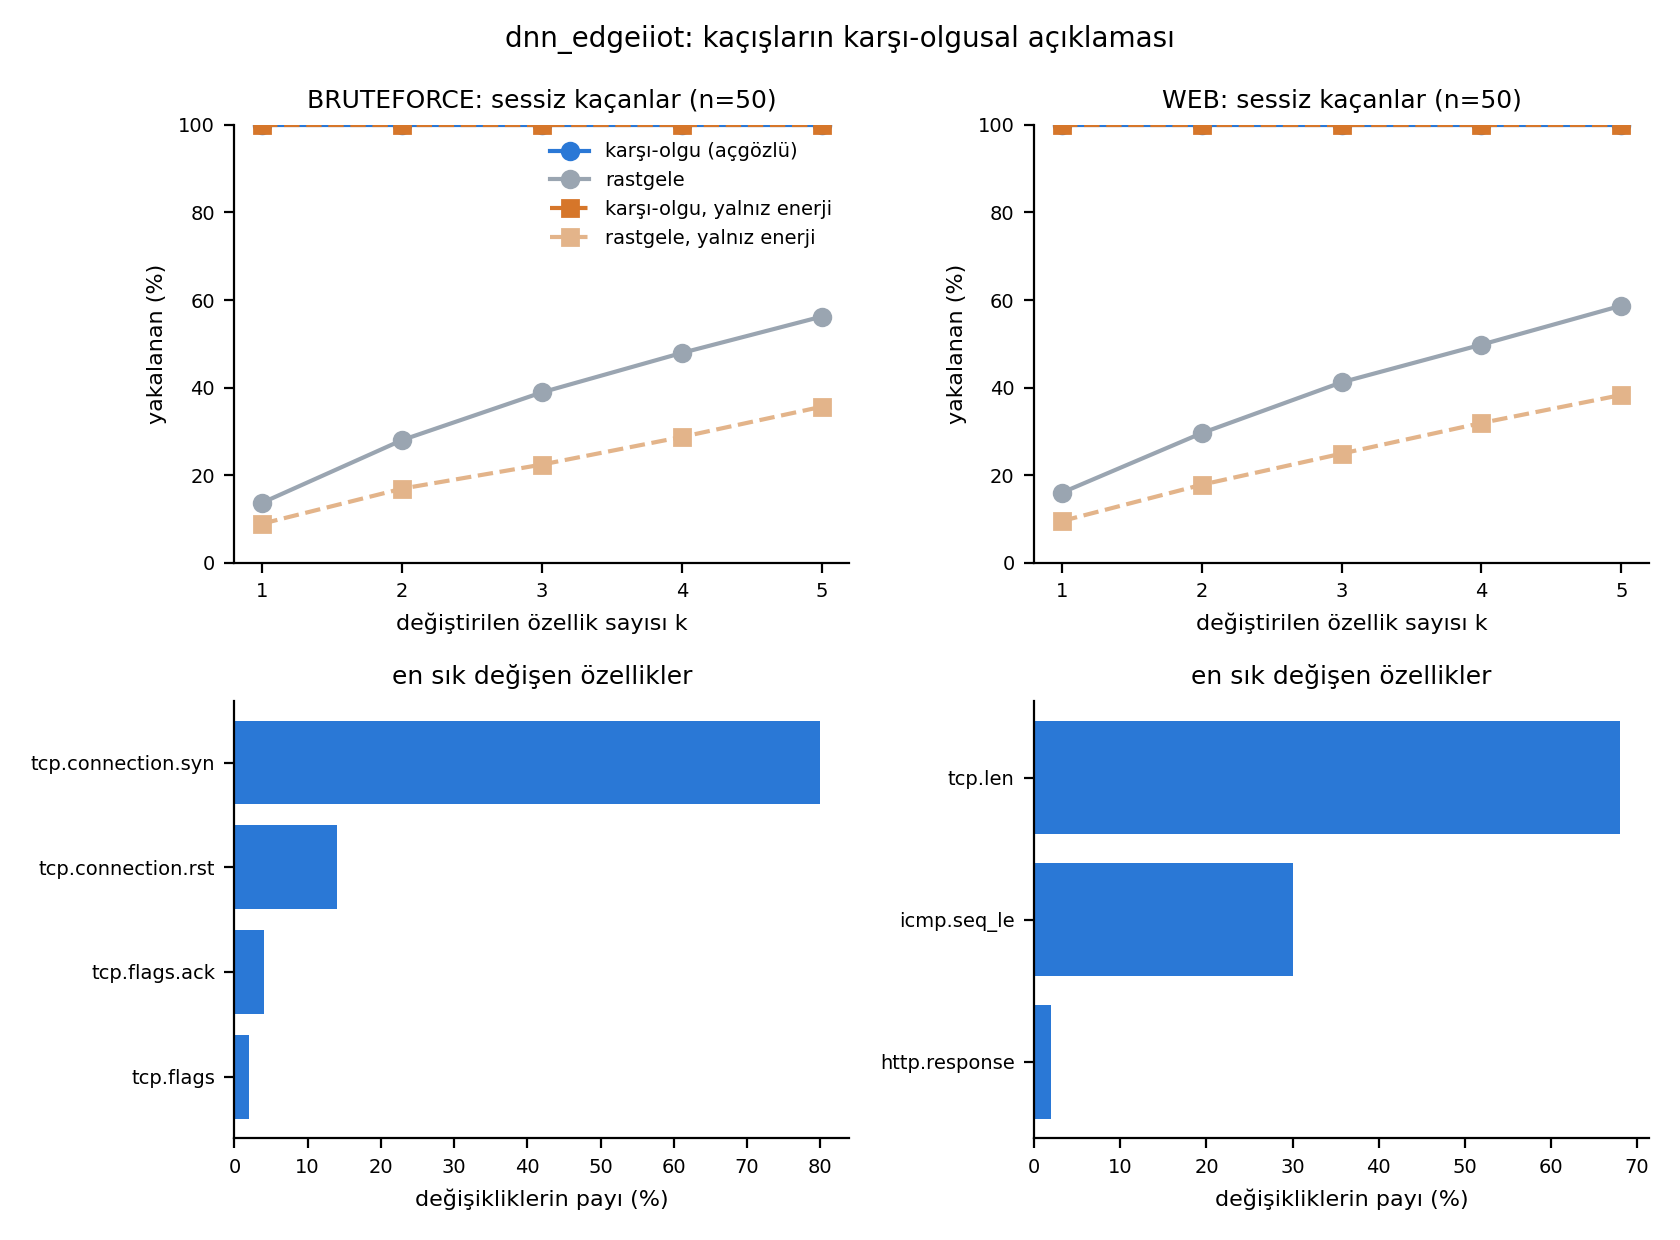
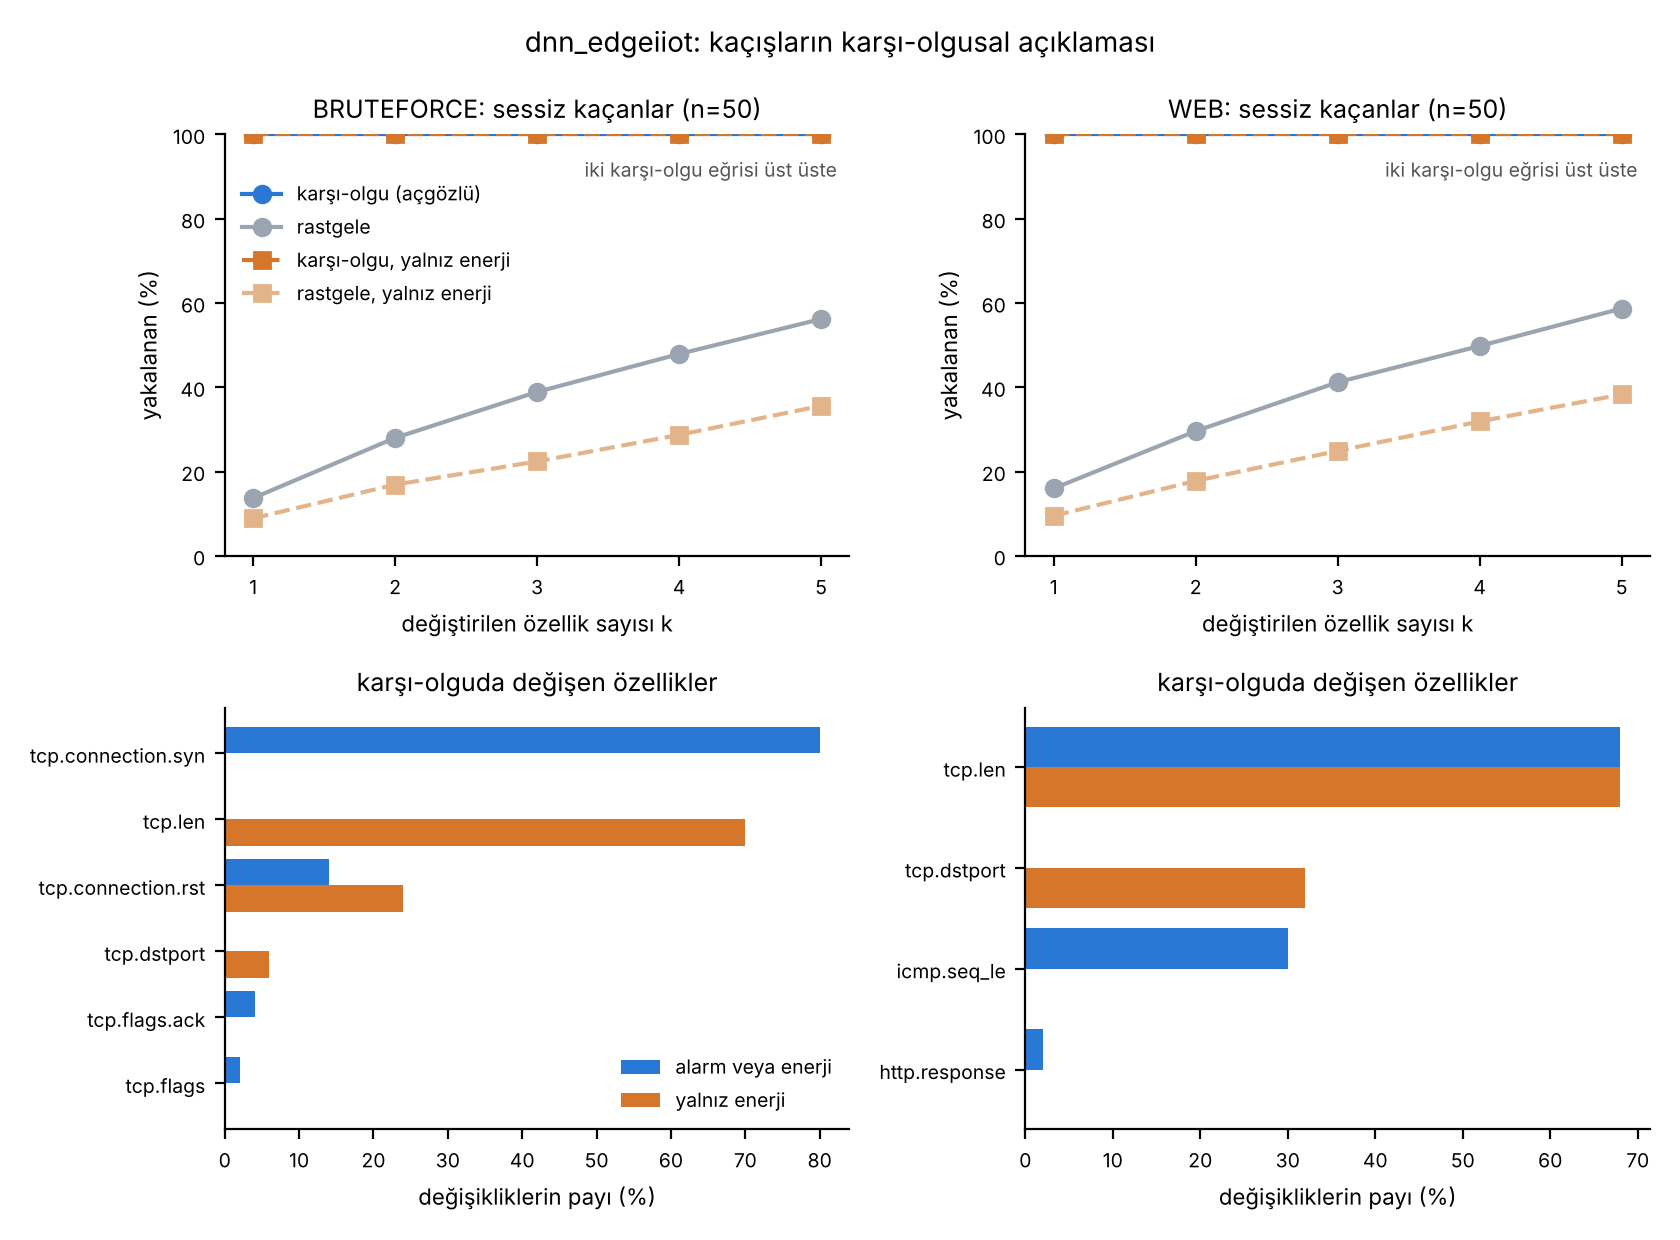
Kaçışların Karşı-Olgusal Açıklaması (XAI-3): sonuçlar README'de; figür (iki karşı-olgu türü yan yana)
Claude-Session: https://claude.ai/code/session_017BRYdsWW3ZevwqEfkv9yJ2

diff --git a/src/xai_escape_counterfactual.py b/src/xai_escape_counterfactual.py
@@ -433,14 +433,24 @@ def plot(out, path):
         ax.spines[["top", "right"]].set_visible(False)
         ax.tick_params(labelsize=7)
         ax2 = axes[1, c]
-        top = s["top_changed_features"][:8][::-1]
-        if top:
-            ax2.barh([t["feature"] for t in top], [t["share_of_changes"] * 100 for t in top], color="#2a78d6")
+        sh_any = {t["feature"]: t["share_of_changes"] * 100 for t in s["top_changed_features"]}
+        sh_e = {t["feature"]: t["share_of_changes"] * 100 for t in s["energy_only"]["top_changed_features"]}
+        feats = sorted(set(sh_any) | set(sh_e), key=lambda k: max(sh_any.get(k, 0), sh_e.get(k, 0)))[-8:]
+        yy = np.arange(len(feats))
+        ax2.barh(yy + 0.2, [sh_any.get(k, 0) for k in feats], 0.4, color="#2a78d6", label="alarm veya enerji")
+        ax2.barh(yy - 0.2, [sh_e.get(k, 0) for k in feats], 0.4, color="#d6762a", label="yalnız enerji")
+        ax2.set_yticks(yy)
+        ax2.set_yticklabels(feats)
         ax2.set_xlabel("değişikliklerin payı (%)", fontsize=8)
-        ax2.set_title("en sık değişen özellikler", fontsize=9)
+        ax2.set_title("karşı-olguda değişen özellikler", fontsize=9)
         ax2.spines[["top", "right"]].set_visible(False)
         ax2.tick_params(labelsize=7)
-    axes[0, 0].legend(frameon=False, fontsize=7)
+        if c == 0:
+            ax2.legend(frameon=False, fontsize=7)
+        if cc["greedy"] == ce["greedy"]:
+            ax.text(0.98, 0.9, "iki karşı-olgu eğrisi üst üste", transform=ax.transAxes, ha="right", fontsize=7,
+                    color="#555")
+    axes[0, 0].legend(frameon=False, fontsize=7, loc="upper left", bbox_to_anchor=(0.0, 0.93))
     fig.suptitle(f"{out['dataset_id']}: kaçışların karşı-olgusal açıklaması", fontsize=10)
     fig.tight_layout()
     fig.savefig(path, dpi=200)

diff --git a/data/dnn_edgeiiot/README.md b/data/dnn_edgeiiot/README.md
@@ -423,6 +423,42 @@ Soru: Bekçiden sessizce geçen (alarm yok, DSS BENIGN dedi, enerji kontrolünde
 - **Yorumda dikkat:** karşı-olgu "saldırganın bekçiyi atlatmak için ne yapması gerekir" sorusuna da ters yönden ipucu verir; tezde savunma amaçlı (kör nokta) çerçevesinde yazılır.
 - **Literatür konumu:** ağ saldırı tespitinde karşı-olgusal açıklamalar kapalı küme sınıflandırma için çalışılmış (ör. arXiv 2507.17161, 2025); görülmemiş saldırı bekçisinin **kaçışlarına** uygulanmasına kısa aramada rastlanmadı. Tez yazılmadan önce ayrıntılı literatür taraması yapılacak; "ilk" iddiası ancak ondan sonra.
 
+## Kaçışların Karşı-Olgusal Açıklaması (XAI-3): sonuçlar (26.10.2026)
+
+Kod: `src/xai_escape_counterfactual.py`. Çıktı: `outputs/dnn_edgeiiot/xai_escape_counterfactual/`, kayıt: `outputs/dnn_edgeiiot/logs/log_xai_escape_counterfactual_C.txt`. Koşul C, tohum 42, q = %5; XAI-2'nin kayıtlı TabM'i (dss_guard ile uyum 1,0) ve aynı 50'şer sessiz kaçan satır. Kaggle GPU, 2 dk.
+
+![Kaçışların karşı-olgusal açıklaması](../../outputs/dnn_edgeiiot/xai_escape_counterfactual/fig_xai_escape_counterfactual_dnn_edgeiiot_C_seq_ack_yok.png)
+
+| | BRUTEFORCE | WEB |
+|---|---|---|
+| Sessiz kaçan (açıklanan) | 195 (50) | 66 (50) |
+| (1) Başlangıç payı, medyan [%10–%90] (IQR) | −0,020 [−0,026, −0,008] | −0,018 [−0,63, −0,006] |
+| Alarm eşiğine uzaklık / enerji eşiğine uzaklık, medyan | −4,65 / −0,020 | −2,64 / −0,018 |
+| (2) Yakalanma k = 1…5, alarm veya enerji: karşı-olgu | %100 (k = 1'de) | %100 (k = 1'de) |
+| … rastgele | %14 → %28 → %39 → %48 → %56 | %16 → %30 → %41 → %50 → %59 |
+| Ek: yalnız enerji: karşı-olgu | %100 (k = 1'de) | %100 (k = 1'de) |
+| … rastgele | %9 → %17 → %22 → %29 → %36 | %10 → %18 → %25 → %32 → %38 |
+| (3) Değişim büyüklüğü, medyan (özellik IQR'si) | 1,0 (yalnız enerji: 0,71) | 2,1 (yalnız enerji: 2,1) |
+| (4) En sık değişen, alarm veya enerji | `tcp.connection.syn` 0→1 (40/50), `tcp.connection.rst` 0→1 (7) | `tcp.len` 0→495 (34), `icmp.seq_le` 0→44615 (15) |
+| … tetiklenen sinyal | alarm + enerji 38, yalnız alarm 12 | alarm + enerji 35, yalnız alarm 15 |
+| (4) En sık değişen, yalnız enerji | `tcp.len` 0→108 (35), `tcp.connection.rst` 0→1 (12), `tcp.dstport` (3) | `tcp.len` 0→495 (34), `tcp.dstport` ~60 900→4321 (16) |
+| (6) XAI-2 ile tutarlılık: kazanç–\|Shapley\| sıra korelasyonu, medyan | −0,30 | −0,38 |
+| … değişen özelliğin \|Shapley\| sırası (medyan) / ilk-5'te olma | 17 / %20 | 5 / %68 |
+| (7) Gerçekçilik: en yakın bilinen satıra uzaklık, özgün kaçış / karşı-olgu (medyan) | 0,00007 / 1,0 | 0,00006 / 1,7 |
+| (8) Port değişikliği payı: alarm veya enerji / yalnız enerji | %0 / %6 | %0 / %32 |
+
+**Yorum:**
+
+1. **Kaçışlar enerji eşiğinin hemen altında, "kıl payı" kaçışlar.** Enerji eşiğine uzaklık medyanı −0,02 IQR; alarm eşiğinden ise çok uzaklar (−2,6 ile −4,6 IQR). Yani bu satırları sessiz bırakan karar, alarm değil enerji kontrolünün sınırı. Bu yüzden tek bir değişiklik her satırı yakalatıyor (karşı-olgu k = 1'de %100); rastgele tek değişiklik bile %9–16'sını yakalatıyor. Yakalanma oranı eğrisi bu yüzden bu veride ayırt edici değil; asıl bilgi **hangi** değişikliğin seçildiğinde.
+2. **"Alarm veya enerji" karşı-olguları büyük ölçüde gerçek dışı.** BRUTEFORCE'ta mevcut pakete SYN bayrağı eklemek, WEB'de HTTP paketine ICMP sıra numarası yazmak gibi, veride birlikte görülmeyen değerler. Satırların hepsinde alarm da tetikleniyor ve karşı-olgular bilinen trafiğe 1,0–1,7 IQR uzaklıkta (özgün kaçışlar ise ≈ 0). Bu, XAI-2'deki bulguyla aynı: anlaşmazlık gerçek dışı karışımlarla kolayca yükseliyor. Bu kısım kör nokta hakkında bilgi vermiyor; sınırlılık olarak raporlanır.
+3. **Asıl kör nokta haritası "yalnız enerji" analizinden geliyor: yükü olmayan (payload'suz) TCP paketleri.** Kaçan satırların çoğunda `tcp.len` = 0; paket boyu normal trafikte görülen bir değere (108 ya da 495 bayt) çekilince enerji kontrolü yakalıyor (BRUTEFORCE'ta 35/50, WEB'de 34/50). Kalanlarda RST bayrağı (BRUTEFORCE 12/50) ve hedef port (WEB 16/50). Yorum: saldırı oturumlarının yük taşımayan kontrol paketleri (ACK gibi) paket düzeyindeki özelliklerde normal trafiğin kontrol paketleriyle aynı görünüyor.
+4. **Kaçışlar bilinen eğitim trafiğinde neredeyse birebir eşine sahip** (en yakın komşu uzaklığı ≈ 0; satırların %12–24'ünde tam olarak 0). Bu özelliklerle hiçbir paket düzeyindeki dedektör bu satırları ayıramaz; bu, yöntemin değil özellik temsilinin sınırı. Akış veya oturum düzeyindeki özellikler (aynı bağlantının diğer paketleri) bu kör noktayı kapatmanın doğal yolu; tezde gelecek çalışma olarak yazılır.
+5. **Port kör noktanın ana sebebi değil.** Gerçekçi (yalnız enerji) karşı-olgularda port payı BRUTEFORCE'ta %6, WEB'de %32; asıl özellik paket boyu. XAI-2'nin "bekçi porta çok bakıyor" bulgusu geçerli, ama kaçışları açıklayan şey port değil.
+6. **XAI-2 ile tutarlılık düşük, ve bu beklenen bir ayrım.** Shapley değeri "mevcut değerler satırı normalden ne kadar ayırıyor" sorusunu, karşı-olgu ise "hangi değişiklik eşiği aştırır" sorusunu cevaplıyor. Kaçışta `tcp.len` = 0 veya bayrak = 0 olduğunda normal tabanla aynı değerde olduğu için Shapley değeri ≈ 0; ama değiştirilince etkisi büyük. İki açıklama birbirini tamamlıyor; analist kartında ikisi ayrı sorular olarak gösterilmeli.
+7. **Gerçekçilik ölçümü (7) planlandığı gibi yorumlanamıyor:** gerçek bilinen satırların kendi en yakın komşularına uzaklığı medyanı 0 (koşul C'de çok sayıda satır özellik uzayında tekrarlanıyor), bu yüzden "oran" tanımsız büyüklükte. Bunun yerine özgün kaçışın uzaklığı (≈ 0) ile karşı-olgunun uzaklığı (1,0–1,7) karşılaştırıldı (sonuçlardan sonra yapılan değişiklik; ham sayılar JSON'da).
+
+**Sonradan önerilen kontrol (ön kayıtlı değil):** kaçan satırların en yakın bilinen eşinin etiketi. Beklenti: çoğunlukla BENIGN (DSS de BENIGN dedi). Doğrulanırsa 4. madde "kaçışlar normal trafikle ayırt edilemez" olarak kesinleşir.
+
 ## Sütun hizası ve değer aralığı denetimi (19.10.2026)
 
 Kod: `src/audit_dnn_edgeiiot.py`, çıktı: `outputs/dnn_edgeiiot/audit/audit.json`. Ham verideki 15 etiketin her biri için 6 kontrol (zaman damgası, IP, port 0–65535, 0/1 bayrak, ARP alanları, sayısal sütunlarda metin). İhlal yalnızca DDoS_UDP (zaman %100) ve MITM'de (zaman %100, port %30, bayrak %19); Normal'de %0,11 bayrak ihlali (önemsiz); diğer 12 saldırı türünde %0. Bu iki tür bulgu 7 gereği atıldı.
